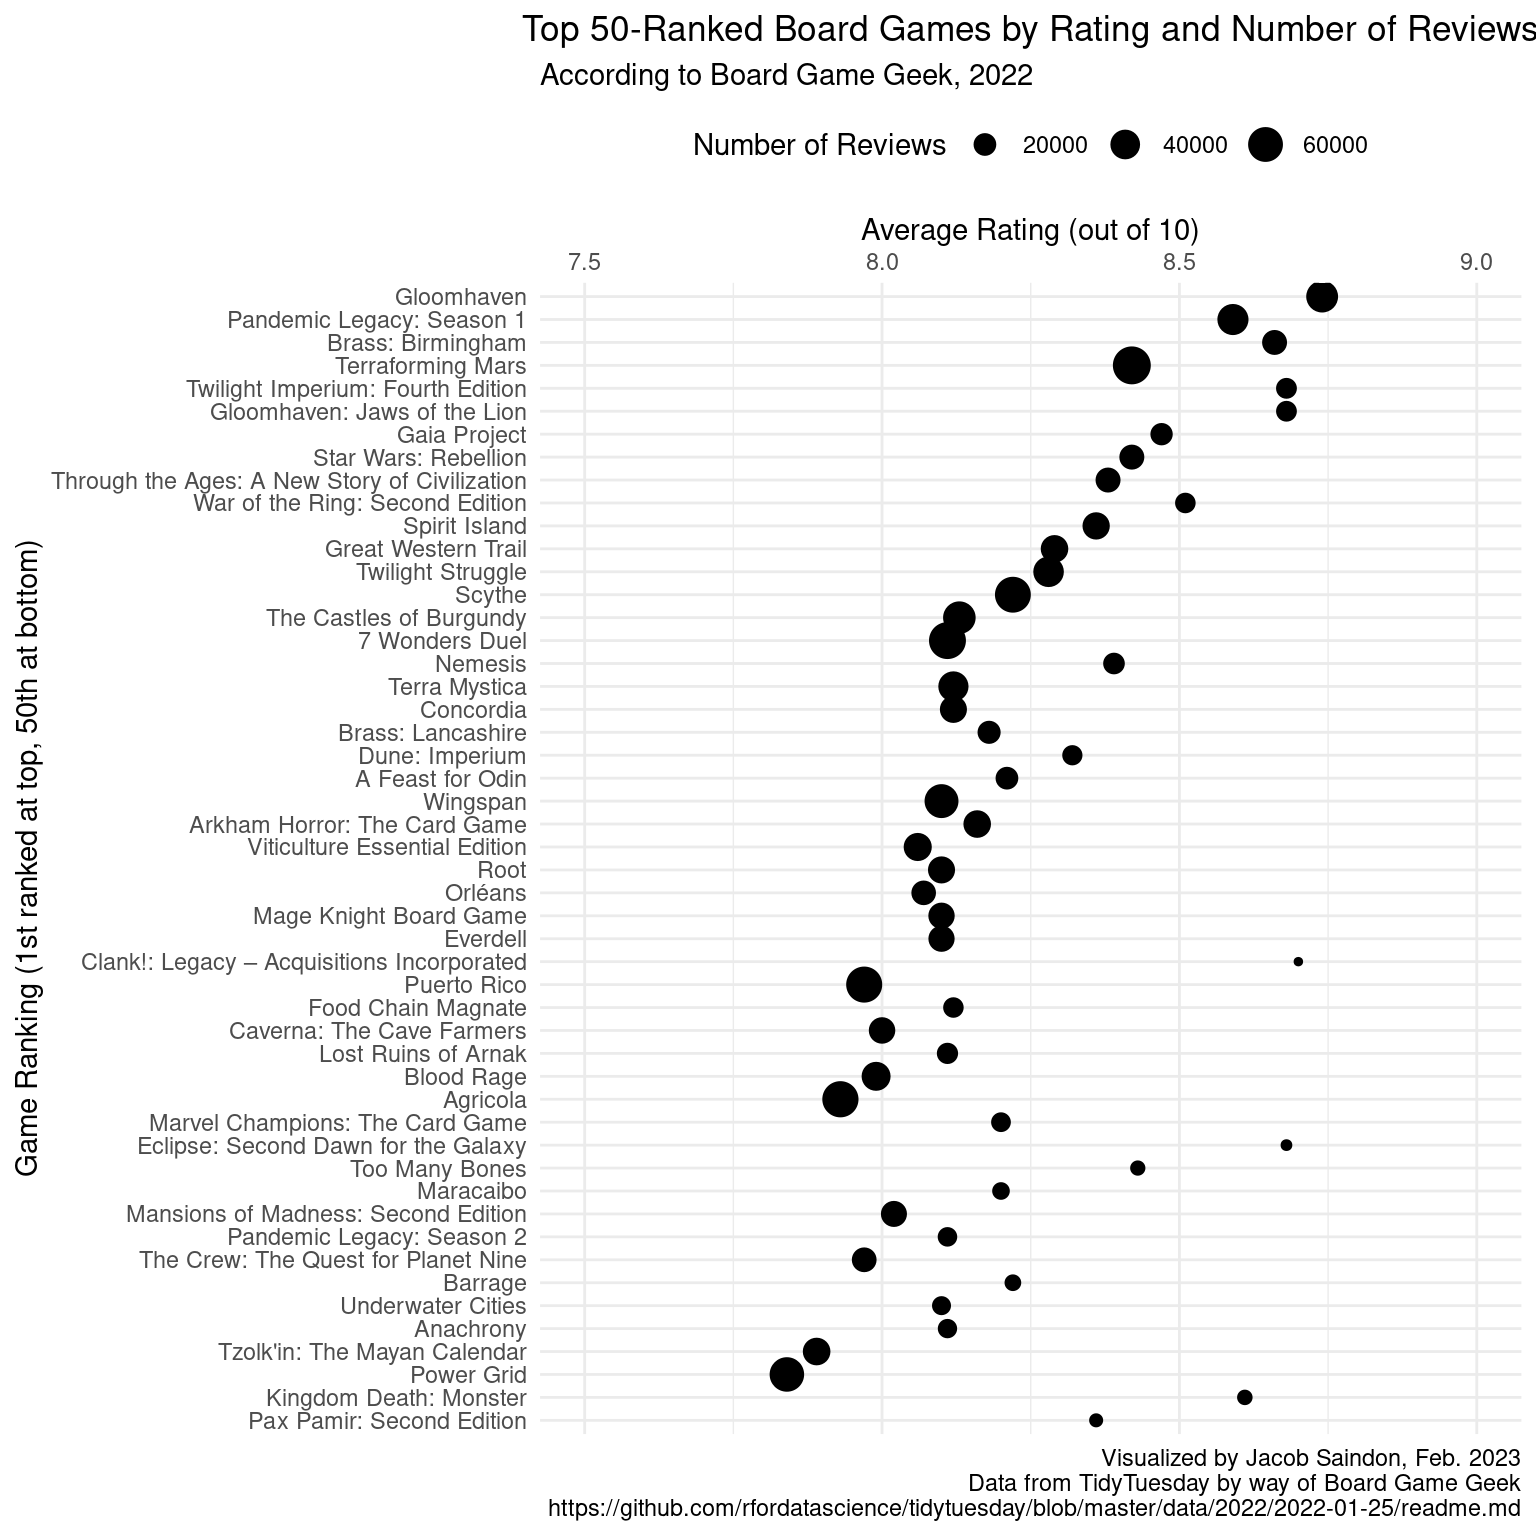
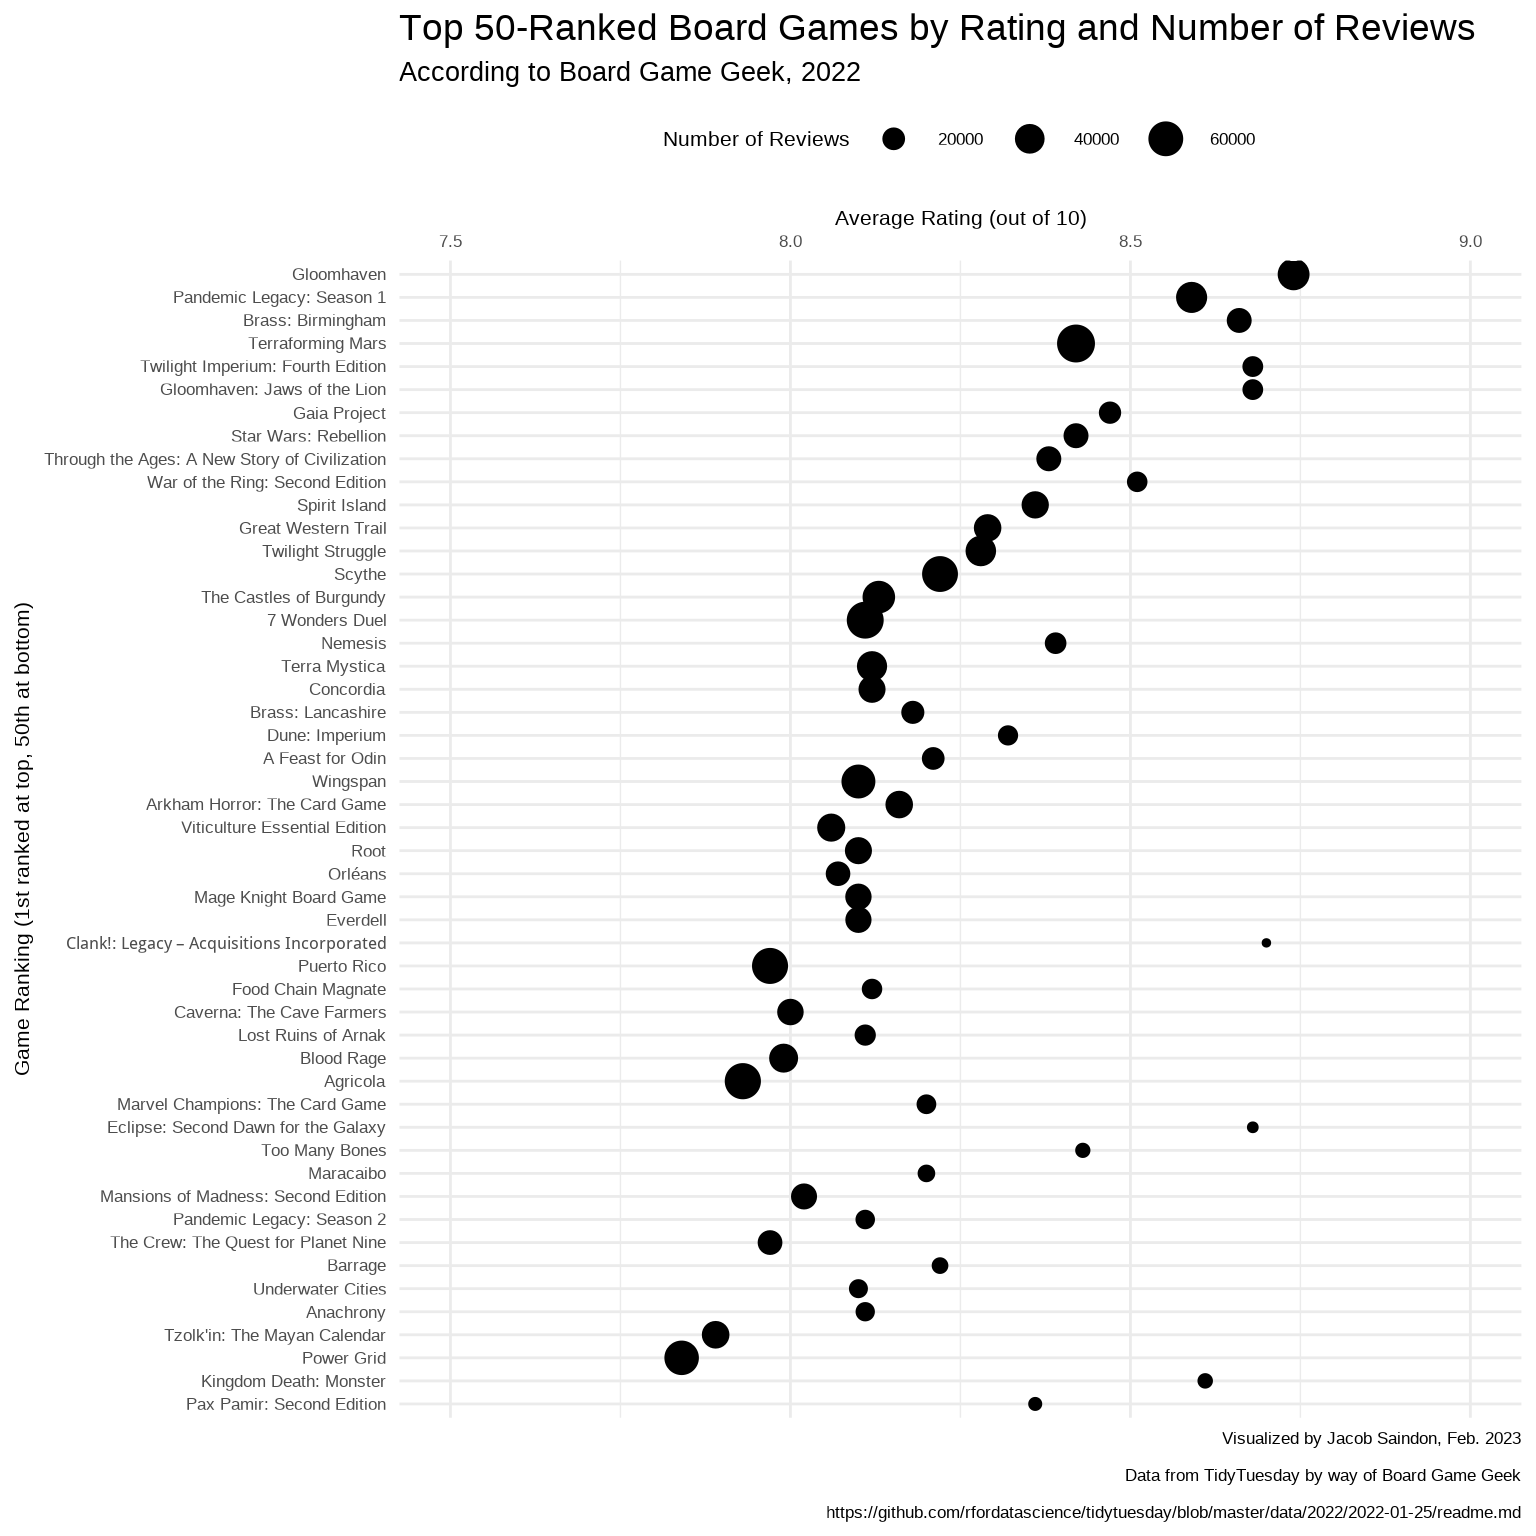
progress

diff --git a/visualization_final_report.html b/visualization_final_report.html
@@ -124,25 +124,35 @@ code span.wa { color: #60a0b0; font-weight: bold; font-style: italic; } /* Warni
 
 </header>
 
+<section id="data-visualization-block-report" class="level1">
+<h1>Data Visualization Block Report</h1>
+<section id="the-visualization" class="level2">
+<h2 class="anchored" data-anchor-id="the-visualization">The Visualization</h2>
 <div class="cell">
 <div class="sourceCode cell-code" id="cb1"><pre class="sourceCode r code-with-copy"><code class="sourceCode r"><span id="cb1-1"><a href="#cb1-1" aria-hidden="true" tabindex="-1"></a><span class="fu">library</span>(tidyverse)</span></code><button title="Copy to Clipboard" class="code-copy-button"><i class="bi"></i></button></pre></div>
 <div class="cell-output cell-output-stderr">
 <pre><code>── Attaching packages ─────────────────────────────────────── tidyverse 1.3.2 ──
-✔ ggplot2 3.4.0      ✔ purrr   0.3.5 
-✔ tibble  3.1.8      ✔ dplyr   1.0.10
-✔ tidyr   1.2.1      ✔ stringr 1.4.1 
-✔ readr   2.1.3      ✔ forcats 0.5.2 
+✔ ggplot2 3.4.0     ✔ purrr   1.0.1
+✔ tibble  3.1.8     ✔ dplyr   1.1.0
+✔ tidyr   1.3.0     ✔ stringr 1.5.0
+✔ readr   2.1.3     ✔ forcats 0.5.2
 ── Conflicts ────────────────────────────────────────── tidyverse_conflicts() ──
 ✖ dplyr::filter() masks stats::filter()
 ✖ dplyr::lag()    masks stats::lag()</code></pre>
 </div>
 <div class="sourceCode cell-code" id="cb3"><pre class="sourceCode r code-with-copy"><code class="sourceCode r"><span id="cb3-1"><a href="#cb3-1" aria-hidden="true" tabindex="-1"></a><span class="fu">library</span>(ggrepel)</span>
-<span id="cb3-2"><a href="#cb3-2" aria-hidden="true" tabindex="-1"></a><span class="fu">library</span>(patchwork)</span>
-<span id="cb3-3"><a href="#cb3-3" aria-hidden="true" tabindex="-1"></a><span class="fu">set.seed</span>(<span class="dv">500</span>)</span></code><button title="Copy to Clipboard" class="code-copy-button"><i class="bi"></i></button></pre></div>
+<span id="cb3-2"><a href="#cb3-2" aria-hidden="true" tabindex="-1"></a><span class="fu">library</span>(showtext)</span></code><button title="Copy to Clipboard" class="code-copy-button"><i class="bi"></i></button></pre></div>
+<div class="cell-output cell-output-stderr">
+<pre><code>Loading required package: sysfonts
+Loading required package: showtextdb</code></pre>
+</div>
+<div class="sourceCode cell-code" id="cb5"><pre class="sourceCode r code-with-copy"><code class="sourceCode r"><span id="cb5-1"><a href="#cb5-1" aria-hidden="true" tabindex="-1"></a>  <span class="fu">font_add_google</span>(<span class="at">name =</span> <span class="st">"Nunito"</span>, <span class="at">family =</span> <span class="st">"nunito"</span>)</span>
+<span id="cb5-2"><a href="#cb5-2" aria-hidden="true" tabindex="-1"></a>  <span class="fu">showtext_auto</span>()</span>
+<span id="cb5-3"><a href="#cb5-3" aria-hidden="true" tabindex="-1"></a>  <span class="fu">set.seed</span>(<span class="dv">500</span>)</span></code><button title="Copy to Clipboard" class="code-copy-button"><i class="bi"></i></button></pre></div>
 </div>
 <p>Source: https://github.com/rfordatascience/tidytuesday/blob/master/data/2022/2022-01-25/readme.md</p>
 <div class="cell">
-<div class="sourceCode cell-code" id="cb4"><pre class="sourceCode r code-with-copy"><code class="sourceCode r"><span id="cb4-1"><a href="#cb4-1" aria-hidden="true" tabindex="-1"></a>ratings <span class="ot">&lt;-</span> <span class="fu">read_csv</span>(<span class="st">'https://raw.githubusercontent.com/rfordatascience/tidytuesday/master/data/2022/2022-01-25/ratings.csv'</span>)</span></code><button title="Copy to Clipboard" class="code-copy-button"><i class="bi"></i></button></pre></div>
+<div class="sourceCode cell-code" id="cb6"><pre class="sourceCode r code-with-copy"><code class="sourceCode r"><span id="cb6-1"><a href="#cb6-1" aria-hidden="true" tabindex="-1"></a>ratings <span class="ot">&lt;-</span> <span class="fu">read_csv</span>(<span class="st">'https://raw.githubusercontent.com/rfordatascience/tidytuesday/master/data/2022/2022-01-25/ratings.csv'</span>)</span></code><button title="Copy to Clipboard" class="code-copy-button"><i class="bi"></i></button></pre></div>
 <div class="cell-output cell-output-stderr">
 <pre><code>Rows: 21831 Columns: 10
 ── Column specification ────────────────────────────────────────────────────────
@@ -155,59 +165,49 @@ dbl (7): num, id, year, rank, average, bayes_average, users_rated
 </div>
 </div>
 <div class="cell">
-<div class="sourceCode cell-code" id="cb6"><pre class="sourceCode r code-with-copy"><code class="sourceCode r"><span id="cb6-1"><a href="#cb6-1" aria-hidden="true" tabindex="-1"></a>rate_plot<span class="ot">&lt;-</span><span class="fu">ggplot</span>(<span class="fu">subset</span>(ratings, rank <span class="sc">%in%</span> <span class="fu">c</span>(<span class="dv">1</span><span class="sc">:</span><span class="dv">50</span>)),<span class="fu">aes</span>(<span class="at">x=</span>average,<span class="at">y=</span><span class="fu">reorder</span>(name,<span class="sc">-</span>rank),<span class="at">size=</span>users_rated))<span class="sc">+</span></span>
-<span id="cb6-2"><a href="#cb6-2" aria-hidden="true" tabindex="-1"></a>  <span class="fu">geom_point</span>()<span class="sc">+</span></span>
-<span id="cb6-3"><a href="#cb6-3" aria-hidden="true" tabindex="-1"></a>  <span class="co"># geom_text_repel(aes(label=rank), size=2.5, color="black", fontface="italic")+</span></span>
-<span id="cb6-4"><a href="#cb6-4" aria-hidden="true" tabindex="-1"></a>  <span class="fu">scale_x_continuous</span>(<span class="at">limits=</span><span class="fu">c</span>(<span class="fl">7.5</span>, <span class="dv">9</span>),<span class="at">position=</span><span class="st">"top"</span>)<span class="sc">+</span></span>
-<span id="cb6-5"><a href="#cb6-5" aria-hidden="true" tabindex="-1"></a>  <span class="fu">scale_y_discrete</span>(<span class="at">position=</span><span class="st">"left"</span>)<span class="sc">+</span></span>
-<span id="cb6-6"><a href="#cb6-6" aria-hidden="true" tabindex="-1"></a>  <span class="fu">theme_minimal</span>()<span class="sc">+</span></span>
-<span id="cb6-7"><a href="#cb6-7" aria-hidden="true" tabindex="-1"></a>  <span class="fu">theme</span>(<span class="at">legend.position=</span><span class="st">"top"</span>,<span class="at">plot.title=</span><span class="fu">element_text</span>(<span class="at">hjust =</span> <span class="fl">0.5</span>))<span class="sc">+</span></span>
-<span id="cb6-8"><a href="#cb6-8" aria-hidden="true" tabindex="-1"></a>  <span class="fu">labs</span>(<span class="at">x=</span><span class="st">"Average Rating (out of 10)"</span>,</span>
-<span id="cb6-9"><a href="#cb6-9" aria-hidden="true" tabindex="-1"></a>       <span class="at">y=</span><span class="st">"Game Ranking (1st ranked at top, 50th at bottom)"</span>,</span>
-<span id="cb6-10"><a href="#cb6-10" aria-hidden="true" tabindex="-1"></a>       <span class="at">size=</span><span class="st">"Number of Reviews"</span>,</span>
-<span id="cb6-11"><a href="#cb6-11" aria-hidden="true" tabindex="-1"></a>       <span class="at">title=</span><span class="st">"Top 50-Ranked Board Games by Rating and Number of Reviews"</span>,</span>
-<span id="cb6-12"><a href="#cb6-12" aria-hidden="true" tabindex="-1"></a>       <span class="at">subtitle=</span><span class="st">"According to Board Game Geek, 2022"</span>,</span>
-<span id="cb6-13"><a href="#cb6-13" aria-hidden="true" tabindex="-1"></a>       <span class="at">caption=</span><span class="st">"Visualized by Jacob Saindon, Feb. 2023</span><span class="sc">\n</span><span class="st">Data from TidyTuesday by way of Board Game Geek</span><span class="sc">\n</span><span class="st">https://github.com/rfordatascience/tidytuesday/blob/master/data/2022/2022-01-25/readme.md"</span>)</span>
-<span id="cb6-14"><a href="#cb6-14" aria-hidden="true" tabindex="-1"></a></span>
-<span id="cb6-15"><a href="#cb6-15" aria-hidden="true" tabindex="-1"></a>rate_plot</span></code><button title="Copy to Clipboard" class="code-copy-button"><i class="bi"></i></button></pre></div>
+<div class="sourceCode cell-code" id="cb8"><pre class="sourceCode r code-with-copy"><code class="sourceCode r"><span id="cb8-1"><a href="#cb8-1" aria-hidden="true" tabindex="-1"></a>rate_plot<span class="ot">&lt;-</span><span class="fu">ggplot</span>(<span class="fu">subset</span>(ratings, rank <span class="sc">%in%</span> <span class="fu">c</span>(<span class="dv">1</span><span class="sc">:</span><span class="dv">50</span>)),<span class="fu">aes</span>(<span class="at">x=</span>average,<span class="at">y=</span><span class="fu">reorder</span>(name,<span class="sc">-</span>rank),<span class="at">size=</span>users_rated))<span class="sc">+</span></span>
+<span id="cb8-2"><a href="#cb8-2" aria-hidden="true" tabindex="-1"></a>  <span class="fu">geom_point</span>()<span class="sc">+</span></span>
+<span id="cb8-3"><a href="#cb8-3" aria-hidden="true" tabindex="-1"></a>  <span class="co"># geom_text_repel(aes(label=rank), size=2.5, color="black", fontface="italic")+</span></span>
+<span id="cb8-4"><a href="#cb8-4" aria-hidden="true" tabindex="-1"></a>  <span class="fu">scale_x_continuous</span>(<span class="at">limits=</span><span class="fu">c</span>(<span class="fl">7.5</span>, <span class="dv">9</span>),<span class="at">position=</span><span class="st">"top"</span>)<span class="sc">+</span></span>
+<span id="cb8-5"><a href="#cb8-5" aria-hidden="true" tabindex="-1"></a>  <span class="fu">scale_y_discrete</span>(<span class="at">position=</span><span class="st">"left"</span>)<span class="sc">+</span></span>
+<span id="cb8-6"><a href="#cb8-6" aria-hidden="true" tabindex="-1"></a>  <span class="fu">theme_minimal</span>()<span class="sc">+</span></span>
+<span id="cb8-7"><a href="#cb8-7" aria-hidden="true" tabindex="-1"></a>  <span class="fu">theme</span>(<span class="at">legend.position=</span><span class="st">"top"</span>, <span class="at">plot.title=</span><span class="fu">element_text</span>(<span class="at">size =</span> <span class="dv">28</span>), <span class="at">plot.subtitle=</span><span class="fu">element_text</span>(<span class="at">size =</span> <span class="dv">20</span>),<span class="at">text=</span><span class="fu">element_text</span>(<span class="at">size=</span><span class="dv">16</span>))<span class="sc">+</span></span>
+<span id="cb8-8"><a href="#cb8-8" aria-hidden="true" tabindex="-1"></a>  <span class="fu">labs</span>(<span class="at">family=</span><span class="st">"nunito"</span>,</span>
+<span id="cb8-9"><a href="#cb8-9" aria-hidden="true" tabindex="-1"></a>       <span class="at">x=</span><span class="st">"Average Rating (out of 10)"</span>,</span>
+<span id="cb8-10"><a href="#cb8-10" aria-hidden="true" tabindex="-1"></a>       <span class="at">y=</span><span class="st">"Game Ranking (1st ranked at top, 50th at bottom)"</span>,</span>
+<span id="cb8-11"><a href="#cb8-11" aria-hidden="true" tabindex="-1"></a>       <span class="at">size=</span><span class="st">"Number of Reviews"</span>,</span>
+<span id="cb8-12"><a href="#cb8-12" aria-hidden="true" tabindex="-1"></a>       <span class="at">title=</span><span class="st">"Top 50-Ranked Board Games by Rating and Number of Reviews"</span>,</span>
+<span id="cb8-13"><a href="#cb8-13" aria-hidden="true" tabindex="-1"></a>       <span class="at">subtitle=</span><span class="st">"According to Board Game Geek, 2022"</span>,</span>
+<span id="cb8-14"><a href="#cb8-14" aria-hidden="true" tabindex="-1"></a>       <span class="at">caption=</span><span class="st">"Visualized by Jacob Saindon, Feb. 2023</span><span class="sc">\n</span><span class="st">Data from TidyTuesday by way of Board Game Geek</span><span class="sc">\n</span><span class="st">https://github.com/rfordatascience/tidytuesday/blob/master/data/2022/2022-01-25/readme.md"</span>)</span>
+<span id="cb8-15"><a href="#cb8-15" aria-hidden="true" tabindex="-1"></a></span>
+<span id="cb8-16"><a href="#cb8-16" aria-hidden="true" tabindex="-1"></a>rate_plot</span></code><button title="Copy to Clipboard" class="code-copy-button"><i class="bi"></i></button></pre></div>
 <div class="cell-output-display">
 <p><img src="visualization_final_report_files/figure-html/unnamed-chunk-3-1.png" class="img-fluid" width="768"></p>
 </div>
 </div>
-<!-- \^Top 25 ranked board games sorted by average user score (out of 10) -->
-<!-- ```{r} -->
-<!-- num_plot<-ggplot(subset(ratings, rank %in% c(1:25)),aes(x=(users_rated/1000),y=reorder(abbreviate(name),users_rated/1000)))+ -->
-<!--   geom_point()+ -->
-<!--   geom_text(aes(label=(users_rated/1000), hjust=-0.5), size=2.5, color="black", fontface="italic")+ -->
-<!--   scale_x_continuous(limits=c(0, 90),name="Number of Reviewers (thousands)")+ -->
-<!--   scale_y_discrete(name=NULL)+ -->
-<!--   theme_minimal() -->
-<!-- ``` -->
-<!-- \^Top 25 ranked board games sorted by user ratings (1000s) -->
-<!-- ```{r} -->
-<!-- combo_plot<-ggplot(subset(ratings, rank %in% c(1:25)),aes(x=(users_rated/1000),y=average))+ -->
-<!--   geom_point()+ -->
-<!--   geom_text_repel(aes(label=abbreviate(name),vjust=-0.2, hjust=-0.2), size=2.5, color="black",fontface="bold")+ -->
-<!--   scale_x_continuous(limits=c(0, 80), name="Number of Reviewers (thousands)")+ -->
-<!--   scale_y_continuous(limits=c(8, 9.0), name="Average Rating (out of 10)")+ -->
-<!--   theme_minimal() -->
-<!-- combo_plot -->
-<!-- ``` -->
-<!-- \^Top 25 ranked board games: average user score (out of 10) x total number of user ratings (1000s) -->
-<!-- ```{r} -->
-<!-- trio_plot<-combo_plot / (rate_plot | num_plot) -->
-<!-- ``` -->
-<!-- ```{r} -->
-<!-- #| fig-width: 12 -->
-<!-- #| fig-height: 8 -->
-<!-- trio_plot+ -->
-<!--   plot_annotation( -->
-<!--     title="Top 25 Ranked Board Games by Rating and Review Volume", -->
-<!--     subtitle=str_wrap("According to Board Game Geek, 2022",width=50), -->
-<!--     caption="Visualized by Jacob Saindon, Feb. 2023\nData from TidyTuesday by way of Board Game Geek\nhttps://github.com/rfordatascience/tidytuesday/blob/master/data/2022/2022-01-25/readme.md", -->
-<!--     theme = theme(plot.title = element_text(size=24, family="Times"),plot.subtitle = element_text(size=16, family="Times"), plot.caption = element_text(size=10, family="Times"))) -->
-<!-- ``` -->
-<p>To-Do: resize points, adjust text labels</p>
+</section>
+<section id="the-report" class="level2">
+<h2 class="anchored" data-anchor-id="the-report">The Report</h2>
+<p>What data you’re plotting, and what its source is.</p>
+<ul>
+<li>The chart is visualizing the Top 50-ranked games according to rating site Board Game Geek (BGG), top-to-bottom, displayed on the x-axis by the games’ average rating out of 10. The size of the dot represents the total volume of reviews on BGG.</li>
+</ul>
+<p>Do you have a sketch of what you’d like the plot to look like?</p>
+<ul>
+<li>Curious about the relationship between game rankings from BGG (a respected rater) and the volume/rating of games</li>
+</ul>
+<p>What decisions did you make in creating the plot (e.g.&nbsp;labels, colors, geometries, plot orientation, etc.)</p>
+<ul>
+<li>Label by individual games, not in aggregate. Because dataset does not include categories (such as Eurogames v. Amerigames). No colors, since no categorization. Size as a visual variable to correspond to number of reviews. Rating on the x-axis to keep game names more visible on the y-axis.</li>
+</ul>
+<p>Why did you make those decisions?</p>
+<p>Does the final plot fall short of your ultimate vision in any way?</p>
+<ul>
+<li><p>I would have liked to include the Y-axis title on the right-hand side to separate it from the board games names.</p></li>
+<li><p>There are some slight imperfections in terms of visualization overlaps that I am not certain how to correct.</p></li>
+</ul>
+</section>
+</section>
 
 </main>
 <!-- /main column -->
